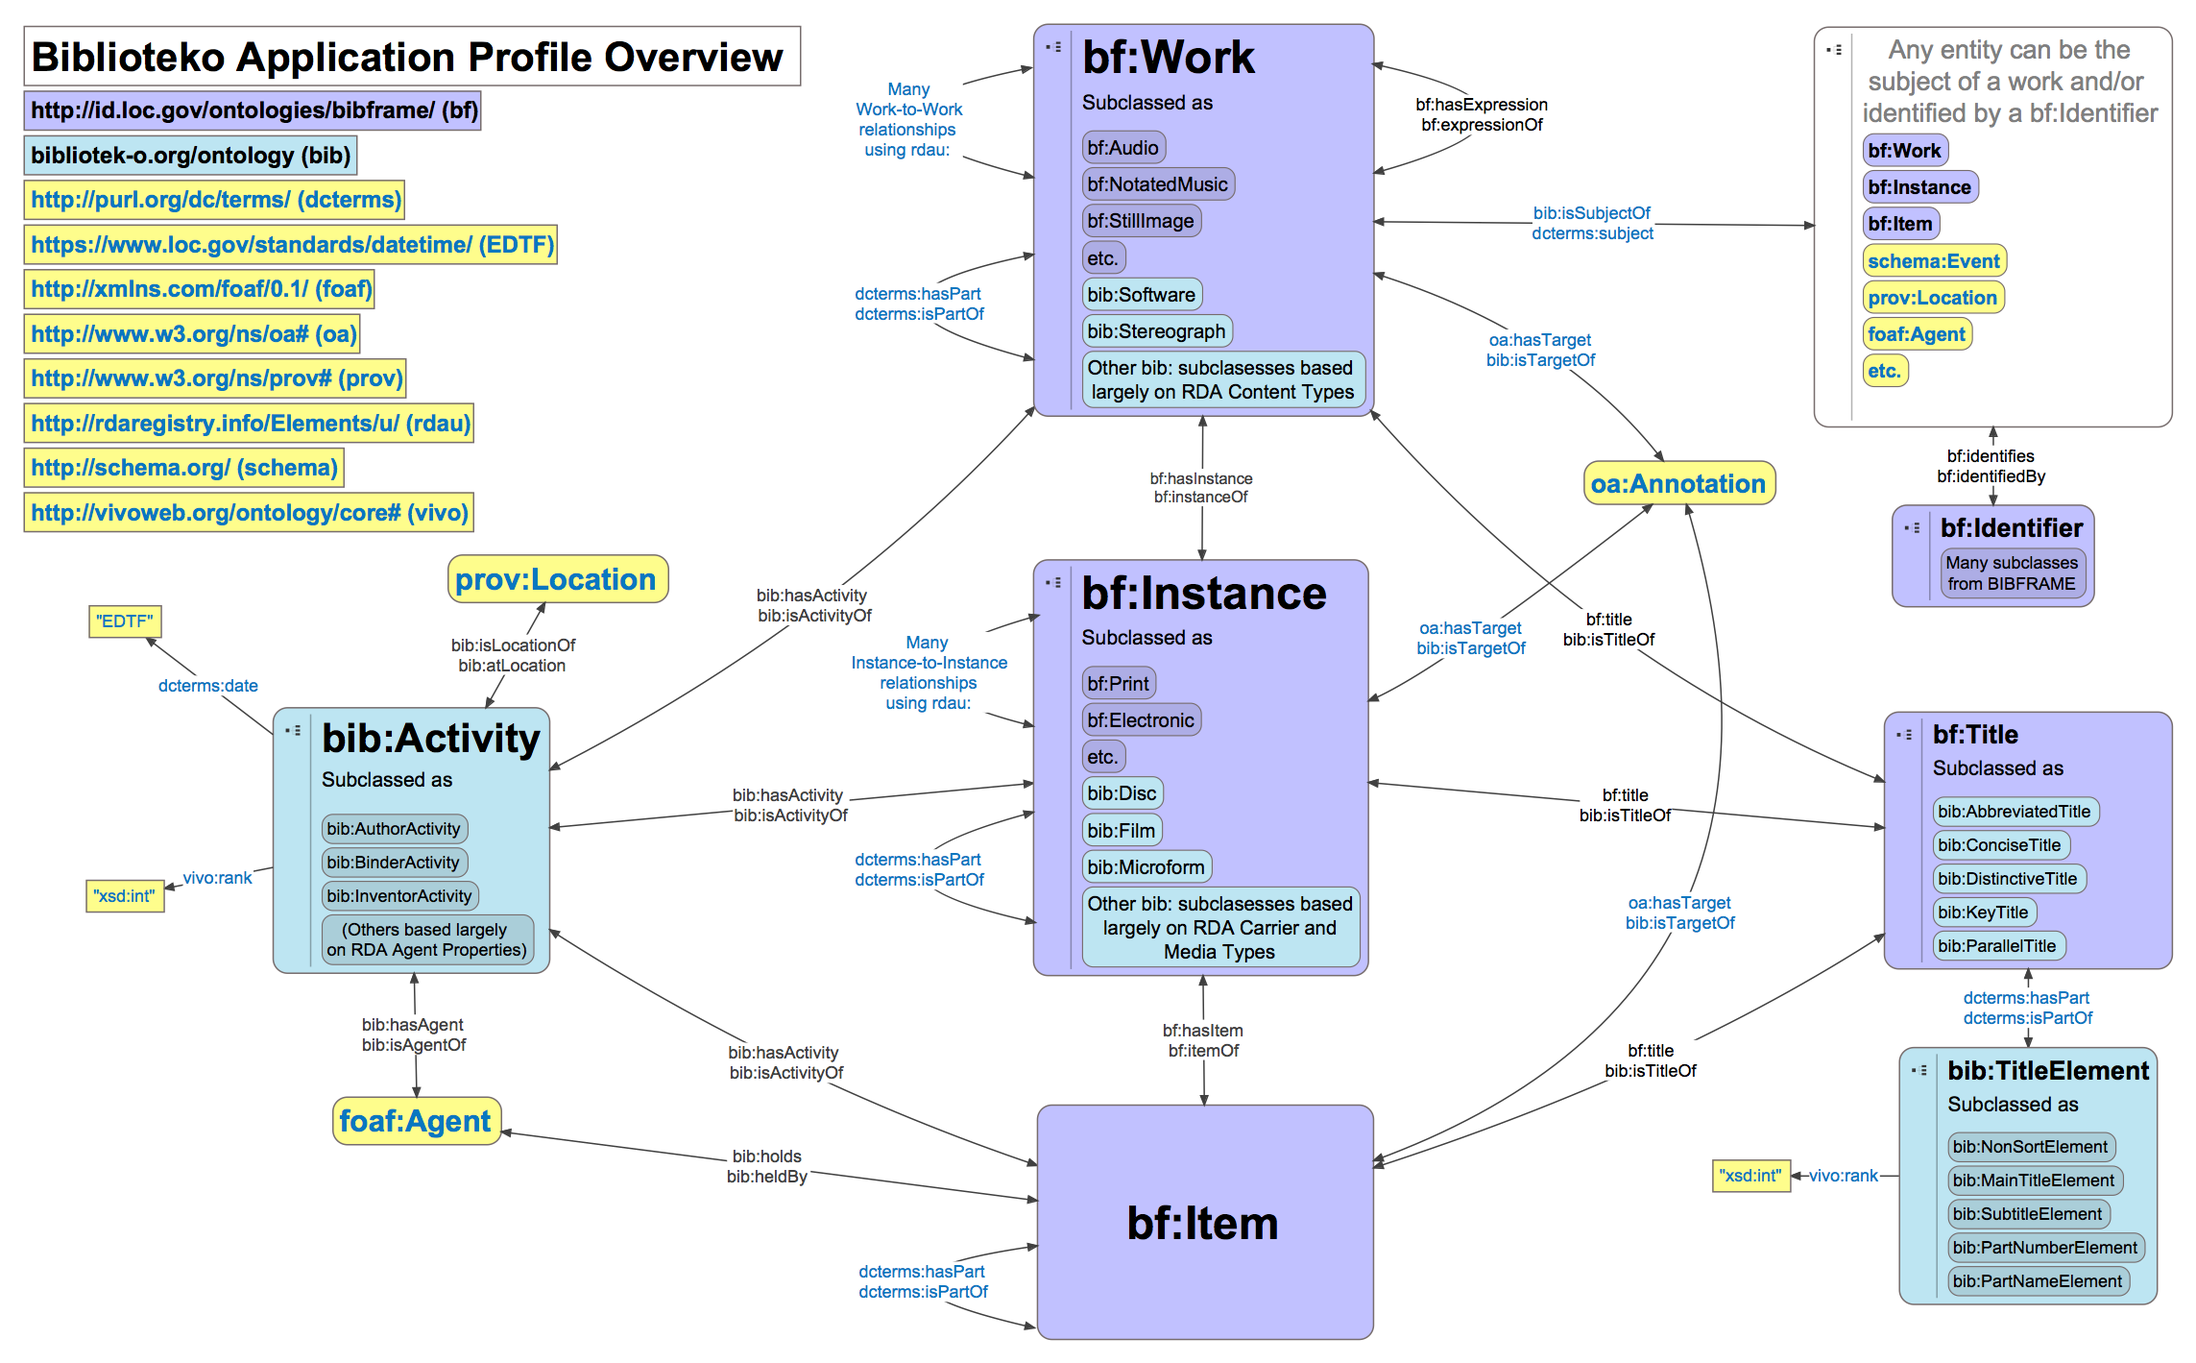
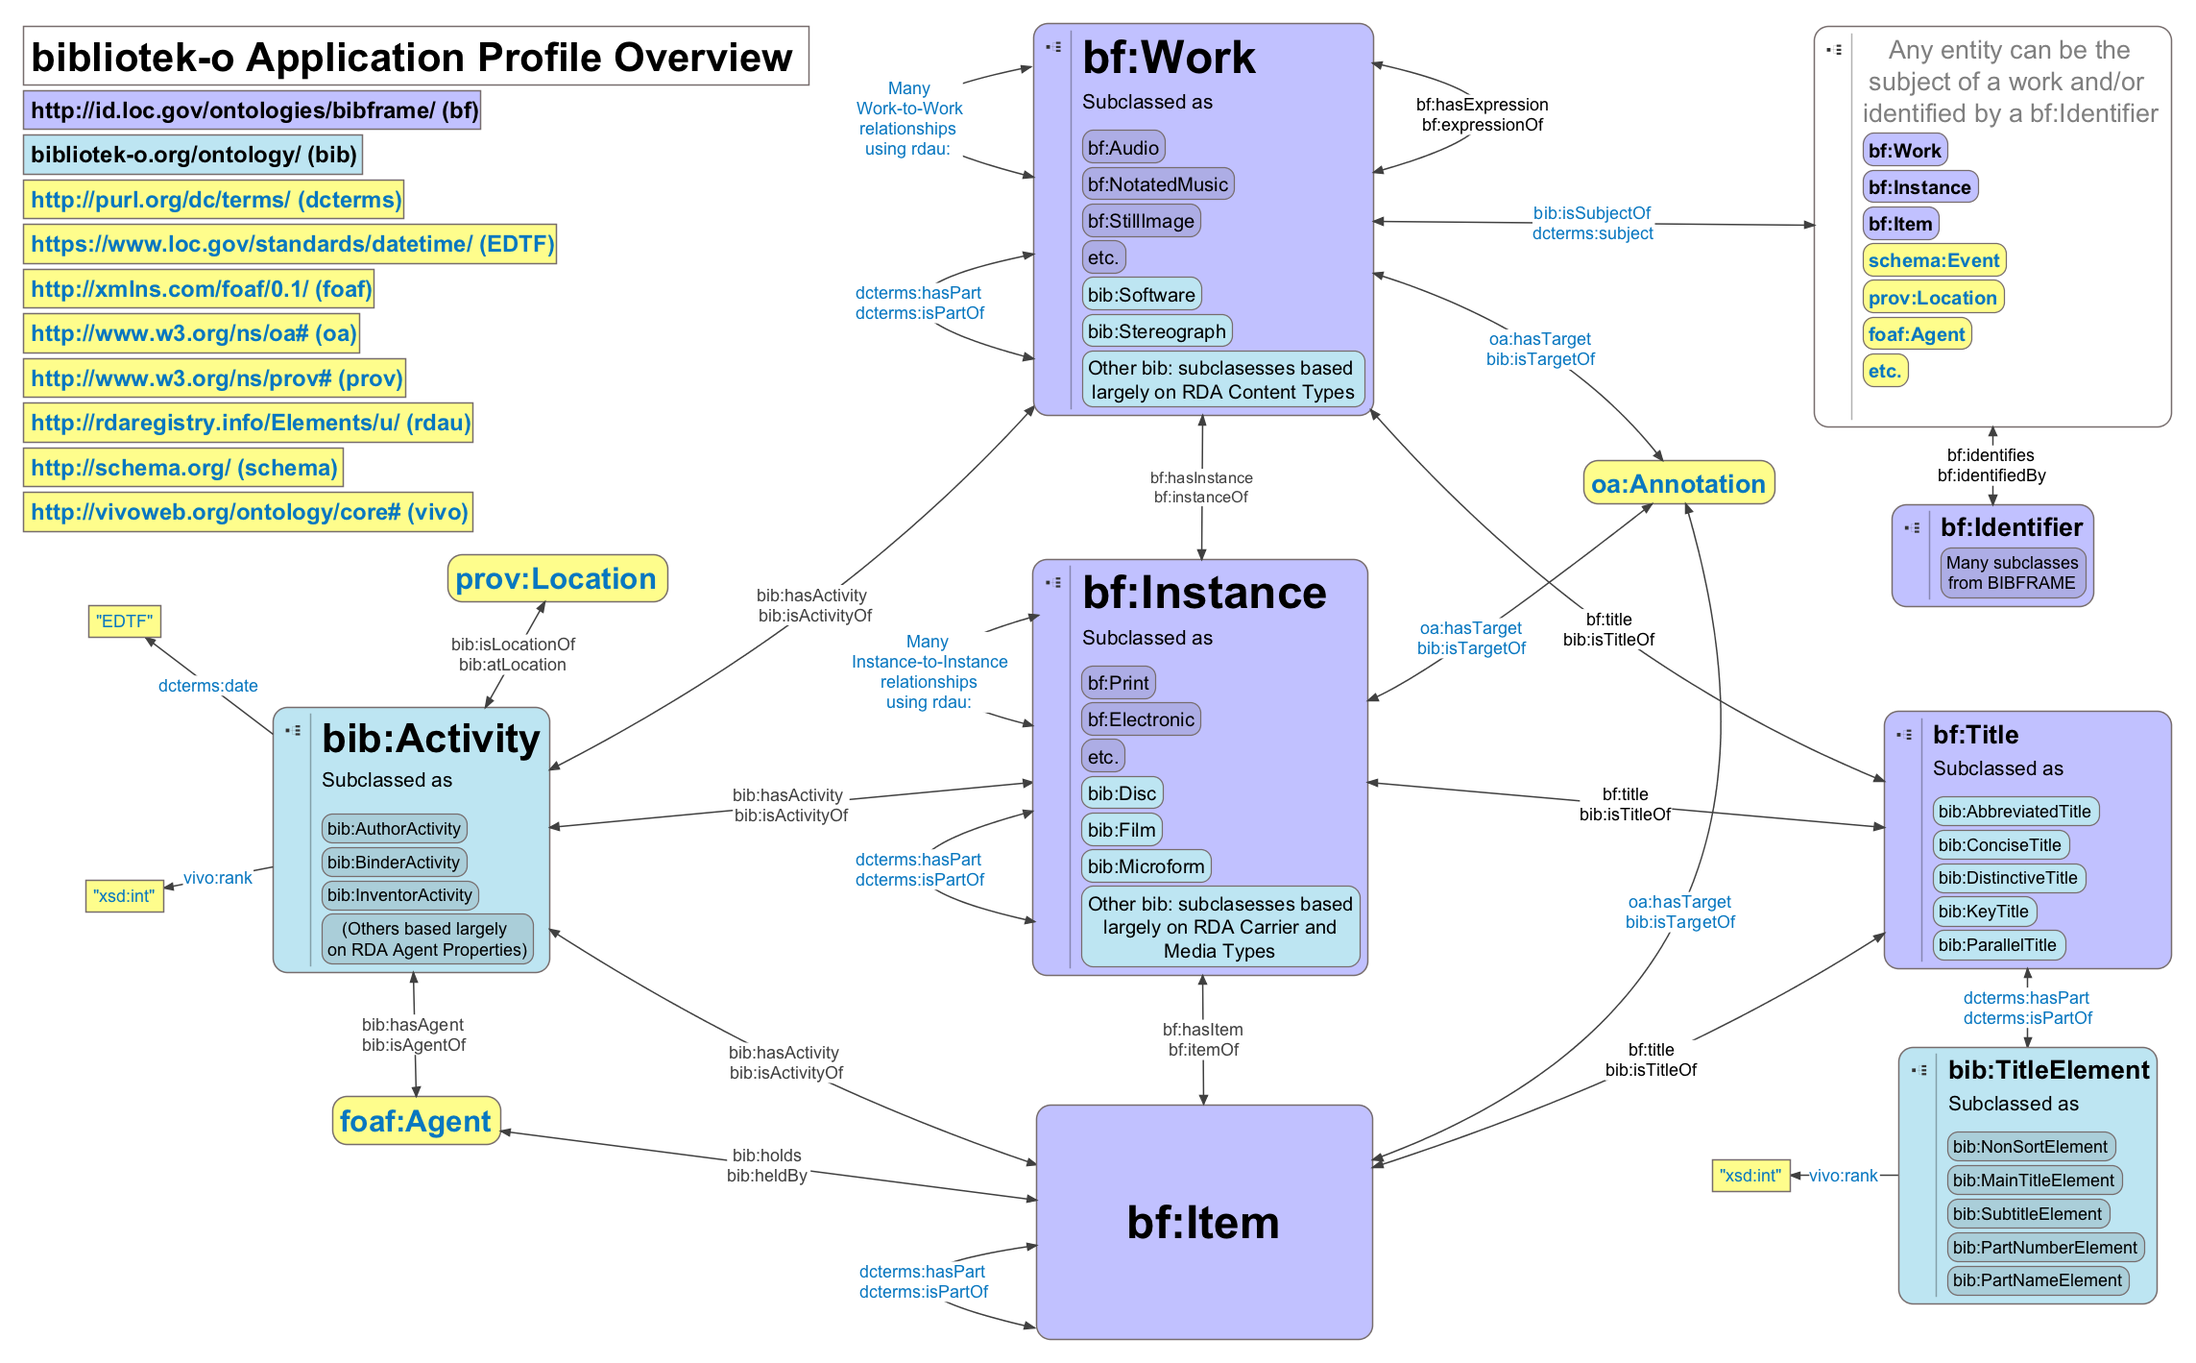
Squashed commit of the following:
commit bca14a5e851ec25eff431c652778630212b43705
Author: Rebecca Younes <rebecca.younes@cornell.edu>
Date:   Fri Apr 21 15:43:21 2017 -0400

    More additions to README and site home page

commit aed488c6bcef4f88d3c82f75cb77957dbce8afb5
Author: Rebecca Younes <rebecca.younes@cornell.edu>
Date:   Fri Apr 21 13:52:20 2017 -0400

    Additions to README and site home page

commit 479e9a22341d61cadaa2cc9c7b003a3b382ebcef
Author: Rebecca Younes <rebecca.younes@cornell.edu>
Date:   Fri Apr 21 13:39:01 2017 -0400

    Modify overview diagram; remove recommendations

commit a7c79b442d6cdf23c32614b5ec2cd7b591ca837f
Author: Rebecca Younes <rebecca.younes@cornell.edu>
Date:   Thu Apr 20 18:08:49 2017 -0400

    Tweaks to index page and README

commit b5d3a6b0b12bd9b599cc34e713d6082acaae5e08
Author: Rebecca Younes <rebecca.younes@cornell.edu>
Date:   Thu Apr 20 15:42:59 2017 -0400

    Another README tweak

commit 3a3642e3839aeee64a7f52105cc743b33aa3a913
Author: Rebecca Younes <rebecca.younes@cornell.edu>
Date:   Thu Apr 20 15:38:37 2017 -0400

    More README tweaks

commit ce493c50ab108590538fbbea1cc47385b5cf8896
Author: Rebecca Younes <rebecca.younes@cornell.edu>
Date:   Thu Apr 20 15:26:19 2017 -0400

    README tweaks

commit 2c0af4d37302aa92031800244154f63a59f5718b
Author: Jason Kovari <jak473@users.noreply.github.com>
Date:   Thu Apr 20 14:46:43 2017 -0400

    Add files via upload

commit ed122e95b34ba93d544d02ac2b6047fa6622eda7
[…]

diff --git a/doc/overview/bibliotek-o.overview.vue b/doc/overview/bibliotek-o.overview.vue
@@ -1,18 +1,18 @@
-<!-- Tufts VUE 3.3.0 concept-map (BIBX_Overview.vue) 2017-04-20 -->
+<!-- Tufts VUE 3.3.0 concept-map (bibliotek-o.overview.vue) 2017-04-21 -->
 <!-- Tufts VUE: http://vue.tufts.edu/ -->
-<!-- Do Not Remove: VUE mapping @version(1.1) jar:file:/Applications/VUE.app/Contents/Resources/Java/VUE.jar!/tufts/vue/resources/lw_mapping_1_1.xml -->
-<!-- Do Not Remove: Saved date Thu Apr 20 10:11:03 EDT 2017 by folsom on platform Mac OS X 10.12.4 in JVM 1.6.0_65-b14-468-11M4833 -->
+<!-- Do Not Remove: VUE mapping @version(1.1) jar:file:/Applications/VUE.localized/VUE.app/Contents/Resources/Java/VUE.jar!/tufts/vue/resources/lw_mapping_1_1.xml -->
+<!-- Do Not Remove: Saved date Fri Apr 21 13:38:03 EDT 2017 by rjy7 on platform Mac OS X 10.10.5 in JVM 1.8.0_51-b16 -->
 <!-- Do Not Remove: Saving version @(#)VUE: built October 8 2015 at 1658 by tomadm on Linux 2.6.32-504.23.4.el6.x86_64 i386 JVM 1.7.0_21-b11(bits=32) -->
 <?xml version="1.0" encoding="US-ASCII"?>
 <LW-MAP xmlns:xsi="http://www.w3.org/2001/XMLSchema-instance"
     xsi:noNamespaceSchemaLocation="none" ID="0"
-    label="BIBX_Overview.vue" created="1491760706566" x="0.0" y="0.0"
-    width="1489.0906" height="913.8333" strokeWidth="0.0" autoSized="false">
-    <resource referenceCreated="1492697463665" size="78458"
-        spec="/Users/folsom/Desktop/LD4*/Ontologies/BIBX_Overview.vue"
+    label="bibliotek-o.overview.vue" created="1491760706566" x="0.0"
+    y="0.0" width="1489.0906" height="913.8333" strokeWidth="0.0" autoSized="false">
+    <resource referenceCreated="1492796283584" size="78535"
+        spec="/Users/rjy7/projects/bibliotek-o/doc/overview/bibliotek-o.overview.vue"
         type="1" xsi:type="URLResource">
-        <title>BIBX_Overview.vue</title>
-        <property key="File" value="/Users/folsom/Desktop/LD4*/Ontologies/BIBX_Overview.vue"/>
+        <title>bibliotek-o.overview.vue</title>
+        <property key="File" value="/Users/rjy7/projects/bibliotek-o/doc/overview/bibliotek-o.overview.vue"/>
     </resource>
     <fillColor>#FFFFFF</fillColor>
     <strokeColor>#404040</strokeColor>
@@ -303,10 +303,10 @@
   &lt;head color="#000000" style="color: #000000"&gt;
     &lt;style type="text/css"&gt;
       &lt;!--
-        body { color: #000000; font-size: 18; margin-left: 0px; margin-bottom: 0px; font-family: Arial; margin-top: 0px; margin-right: 0px }
-        ol { margin-left: 30; font-size: 18; font-family: Arial; margin-top: 6; list-style-position: outside; vertical-align: middle }
-        p { color: #000000; margin-left: 0; margin-bottom: 0; margin-top: 0; margin-right: 0 }
-        ul { margin-left: 30; font-size: 18; font-family: Arial; margin-top: 6; list-style-position: outside; vertical-align: middle }
+        body { margin-top: 0px; margin-bottom: 0px; margin-left: 0px; margin-right: 0px; color: #000000; font-size: 18; font-family: Arial }
+        ol { margin-top: 6; font-family: Arial; vertical-align: middle; margin-left: 30; font-size: 18; list-style-position: outside }
+        p { margin-top: 0; margin-left: 0; margin-right: 0; margin-bottom: 0; color: #000000 }
+        ul { margin-top: 6; font-size: 18; margin-left: 30; vertical-align: middle; list-style-position: outside; font-family: Arial }
       --&gt;
     &lt;/style&gt;
     
@@ -621,10 +621,10 @@
   &lt;head color="#000000" style="color: #000000"&gt;
     &lt;style type="text/css"&gt;
       &lt;!--
-        body { color: #000000; font-size: 18; margin-left: 0px; margin-bottom: 0px; font-family: Arial; margin-top: 0px; margin-right: 0px }
-        ol { margin-left: 30; font-size: 18; font-family: Arial; margin-top: 6; list-style-position: outside; vertical-align: middle }
-        p { color: #000000; margin-left: 0; margin-bottom: 0; margin-top: 0; margin-right: 0 }
-        ul { margin-left: 30; font-size: 18; font-family: Arial; margin-top: 6; list-style-position: outside; vertical-align: middle }
+        body { margin-top: 0px; margin-bottom: 0px; margin-left: 0px; margin-right: 0px; color: #000000; font-size: 18; font-family: Arial }
+        ol { margin-top: 6; font-family: Arial; vertical-align: middle; margin-left: 30; font-size: 18; list-style-position: outside }
+        p { margin-top: 0; margin-left: 0; margin-right: 0; margin-bottom: 0; color: #000000 }
+        ul { margin-top: 6; font-size: 18; margin-left: 30; vertical-align: middle; list-style-position: outside; font-family: Arial }
       --&gt;
     &lt;/style&gt;
     
@@ -730,10 +730,10 @@
   &lt;head color="#000000" style="color: #000000"&gt;
     &lt;style type="text/css"&gt;
       &lt;!--
-        body { color: #000000; font-size: 18; margin-left: 0px; margin-bottom: 0px; font-family: Arial; margin-top: 0px; margin-right: 0px }
-        ol { margin-left: 30; font-size: 18; font-family: Arial; margin-top: 6; list-style-position: outside; vertical-align: middle }
-        p { color: #000000; margin-left: 0; margin-bottom: 0; margin-top: 0; margin-right: 0 }
-        ul { margin-left: 30; font-size: 18; font-family: Arial; margin-top: 6; list-style-position: outside; vertical-align: middle }
+        body { margin-top: 0px; margin-bottom: 0px; margin-left: 0px; margin-right: 0px; color: #000000; font-size: 18; font-family: Arial }
+        ol { margin-top: 6; font-family: Arial; vertical-align: middle; margin-left: 30; font-size: 18; list-style-position: outside }
+        p { margin-top: 0; margin-left: 0; margin-right: 0; margin-bottom: 0; color: #000000 }
+        ul { margin-top: 6; font-size: 18; margin-left: 30; vertical-align: middle; list-style-position: outside; font-family: Arial }
       --&gt;
     &lt;/style&gt;
     
@@ -916,10 +916,10 @@
   &lt;head color="#000000" style="color: #000000"&gt;
     &lt;style type="text/css"&gt;
       &lt;!--
-        body { color: #000000; font-size: 18; margin-left: 0px; margin-bottom: 0px; font-family: Arial; margin-top: 0px; margin-right: 0px }
-        ol { margin-left: 30; font-size: 18; font-family: Arial; margin-top: 6; list-style-position: outside; vertical-align: middle }
-        p { color: #000000; margin-left: 0; margin-bottom: 0; margin-top: 0; margin-right: 0 }
-        ul { margin-left: 30; font-size: 18; font-family: Arial; margin-top: 6; list-style-position: outside; vertical-align: middle }
+        body { margin-top: 0px; margin-bottom: 0px; margin-left: 0px; margin-right: 0px; color: #000000; font-size: 18; font-family: Arial }
+        ol { margin-top: 6; font-family: Arial; vertical-align: middle; margin-left: 30; font-size: 18; list-style-position: outside }
+        p { margin-top: 0; margin-left: 0; margin-right: 0; margin-bottom: 0; color: #000000 }
+        ul { margin-top: 6; font-size: 18; margin-left: 30; vertical-align: middle; list-style-position: outside; font-family: Arial }
       --&gt;
     &lt;/style&gt;
     
@@ -1043,10 +1043,10 @@
   &lt;head color="#000000" style="color: #000000"&gt;
     &lt;style type="text/css"&gt;
       &lt;!--
-        body { color: #000000; font-size: 18; margin-left: 0px; margin-bottom: 0px; font-family: Arial; margin-top: 0px; margin-right: 0px }
-        ol { margin-left: 30; font-size: 18; font-family: Arial; margin-top: 6; list-style-position: outside; vertical-align: middle }
-        p { color: #000000; margin-left: 0; margin-bottom: 0; margin-top: 0; margin-right: 0 }
-        ul { margin-left: 30; font-size: 18; font-family: Arial; margin-top: 6; list-style-position: outside; vertical-align: middle }
+        body { margin-top: 0px; margin-bottom: 0px; margin-left: 0px; margin-right: 0px; color: #000000; font-size: 18; font-family: Arial }
+        ol { margin-top: 6; font-family: Arial; vertical-align: middle; margin-left: 30; font-size: 18; list-style-position: outside }
+        p { margin-top: 0; margin-left: 0; margin-right: 0; margin-bottom: 0; color: #000000 }
+        ul { margin-top: 6; font-size: 18; margin-left: 30; vertical-align: middle; list-style-position: outside; font-family: Arial }
       --&gt;
     &lt;/style&gt;
     
@@ -1171,9 +1171,9 @@
         <ID1 xsi:type="node">9</ID1>
         <ctrlPoint0 x="444.73636" y="570.81836" xsi:type="point"/>
     </child>
-    <child ID="72" label="Biblioteko Application Profile Overview"
+    <child ID="72" label="bibliotek-o Application Profile Overview"
         layerID="73" created="1491785188843" x="-101.81381"
-        y="-297.47794" width="539.0" height="41.0" strokeWidth="1.0"
+        y="-297.47794" width="545.0" height="41.0" strokeWidth="1.0"
         autoSized="true" xsi:type="node">
         <fillColor>#FFFFFF</fillColor>
         <strokeColor>#776D6D</strokeColor>
@@ -1182,9 +1182,9 @@
         <URIString>http://vue.tufts.edu/rdf/resource/557365e7c0a86a2e4067d00af2bfdf6b</URIString>
         <shape xsi:type="rectangle"/>
     </child>
-    <child ID="70" label="bibliotek-o.org/ontology (bib)" layerID="73"
+    <child ID="70" label="bibliotek-o.org/ontology/ (bib)" layerID="73"
         created="1491785110015" x="-101.81381" y="-221.54425"
-        width="231.0" height="27.0" strokeWidth="1.0" autoSized="true" xsi:type="node">
+        width="235.0" height="27.0" strokeWidth="1.0" autoSized="true" xsi:type="node">
         <fillColor>#BDE5F2</fillColor>
         <strokeColor>#776D6D</strokeColor>
         <textColor>#000000</textColor>
@@ -1423,7 +1423,7 @@
         height="1.4E-45" strokeWidth="0.0" autoSized="false">
         <URIString>http://vue.tufts.edu/rdf/resource/68e1de0fc0a86a2e4067d00a98ba0c6e</URIString>
     </layer>
-    <userZoom>0.5974831429755524</userZoom>
+    <userZoom>0.6526234306871915</userZoom>
     <userOrigin x="-319.14984" y="-240.41621"/>
     <presentationBackground>#202020</presentationBackground>
     <PathwayList currentPathway="0" revealerIndex="-1">
@@ -1476,6 +1476,6 @@
     </PathwayList>
     <date>2017-04-09</date>
     <modelVersion>6</modelVersion>
-    <saveLocation>/Users/folsom/Desktop/LD4*/Ontologies</saveLocation>
-    <saveFile>/Users/folsom/Desktop/LD4*/Ontologies/BIBX_Overview.vue</saveFile>
+    <saveLocation>/Users/rjy7/projects/bibliotek-o/doc/overview</saveLocation>
+    <saveFile>/Users/rjy7/projects/bibliotek-o/doc/overview/bibliotek-o.overview.vue</saveFile>
 </LW-MAP>

diff --git a/doc/index.html b/doc/index.html
@@ -13,7 +13,7 @@ bibliotek-o is an ontology recommendation for modeling bibliographic metadata. I
 <ul>
 <li>The bibliotek-o extension ontology, which defines additions and modifications to <a href="http://id.loc.gov/ontologies/bibframe.html">BIBFRAME 2</a> and is intended to be used as a supplement to the core BIBFRAME 2 ontology.</li>
 <li>A set of ontology fragments (including BIBFRAME 2) intended for use with the bibliotek-o extension.</li>
-<li>A set of models and patterns - i.e., an application profile - documenting the recommended use of the preceding.</li>
+<li>An application profile - i.e., a set of models and patterns documenting the recommended use of the bibliotek-o and external ontologies.</li>
 </ul>
 
 <p>
@@ -25,14 +25,21 @@ content negotiation from
 <a href="/ontology.owl">http://bibliotek-o.org/ontology.owl</a>.
 </p>
 
-
-
+<p>Additional documentation:</p>
+<ul>
+<li>A <a href="http://bibliotek-o.org/overview.html">diagrammatic overview of the bibliotek-o application profile with an index of terms</a>.</li>
+<li>bibliotek-o documentation on the <a href="https://wiki.duraspace.org/display/LD4P/bibliotek-o">Linked Data for Production project pages</a>.</li>
+</ul>
 
 <p>
 bibliotek-o is a product of the 
 <a href="https://ld4l.org/ld4l-labs/">Linked Data for Libraries (LD4L) Labs</a> and
 <a href="https://ld4l.org/ld4p">Linked Data for Production (LD4P)</a> projects.
 </p>
+
+
+
+
 
 </body>
 </html>

diff --git a/doc/main.css b/doc/main.css
@@ -13,3 +13,5 @@ h2 { color: #005A9C; background: white }
 h3 { color: #005A9C; background: white }
 h4 { color: #005A9C; background: white }
 h5 { color: #005A9C; background: white }
+
+li { margin-bottom: 8px }

diff --git a/README.md b/README.md
@@ -6,7 +6,7 @@ bibliotek-o is an ontology recommendation for modeling bibliographic metadata. I
 
 * The [bibliotek-o extension ontology](http://bibliotek-o.org/ontology/), which defines additions and modifications to [BIBFRAME 2](http://id.loc.gov/ontologies/bibframe) and is intended to be used as a supplement to the core BIBFRAME 2 ontology.
 * A set of ontology fragments (including BIBFRAME 2) intended for use with the bibliotek-o extension.
-* A set of models and patterns - i.e., an application profile - documenting the recommended use of the preceding.
+* An application profile - i.e., a set of models and patterns documenting the recommended use of the bibliotek-o and external ontologies.
 
 bibliotek-o is a joint product of the Mellon Foundation-funded Linked Data for Libraries - Labs (LD4L - Labs) and Linked Data for Production (LD4P) projects. See the [LD4L website](http://ld4l.org), the [LD4L - Labs public wiki](https://wiki.duraspace.org/pages/viewpage.action?pageId=77447730), and the [LD4P public wiki](https://wiki.duraspace.org/pages/viewpage.action?pageId=74515029) for more information on these projects.
 
@@ -21,15 +21,16 @@ This repository contains the formal bibliotek-o specification, ontology and data
   * Datatypes defined by bibliotek-o: `xsd/bibliotek-o.datatypes.xsd`
   * Datasets included in the bibliotek-o recommendation: `datasets/`
   * Human-readable documentation ([LODE](http://www.essepuntato.it/lode)): `doc/LODE/`
-  * Overview diagrams of the bibliotek-o recommendation, in both vue and png formats: `doc/overview/`
+  * Overview diagrams of the bibliotek-o application profile, in both vue and png formats: `doc/overview/`
   * Recommendation documents, including recommended terms, models, and patterns: `doc/recommendations/`
   
   
-## Additional documentation in progress
+## Additional documentation 
 
-  * An overview of the principles and best practices guiding the development of bibliotek-o. 
-  * Discussion and diagrams of the principal models and patterns adopted by bibliotek-o. 
-  * Mapping tables from current catalog formats to the ontology recommendation.
-  * Application profiles for original data modeling using the bibliotek-o recommendation.
+  * A [diagrammatic overview of the bibliotek-o application profile with an index of terms](http://bibliotek-o.org/overview.html) 
+  * An overview of the principles and best practices guiding the development of bibliotek-o (forthcoming)
+  * Discussion and diagrams of the principal models and patterns adopted by bibliotek-o (forthcoming)
+  * Mapping tables from current catalog formats to the ontology recommendation (forthcoming)
+  * Application profiles for original data modeling using the bibliotek-o recommendation (forthcoming)
 
  
